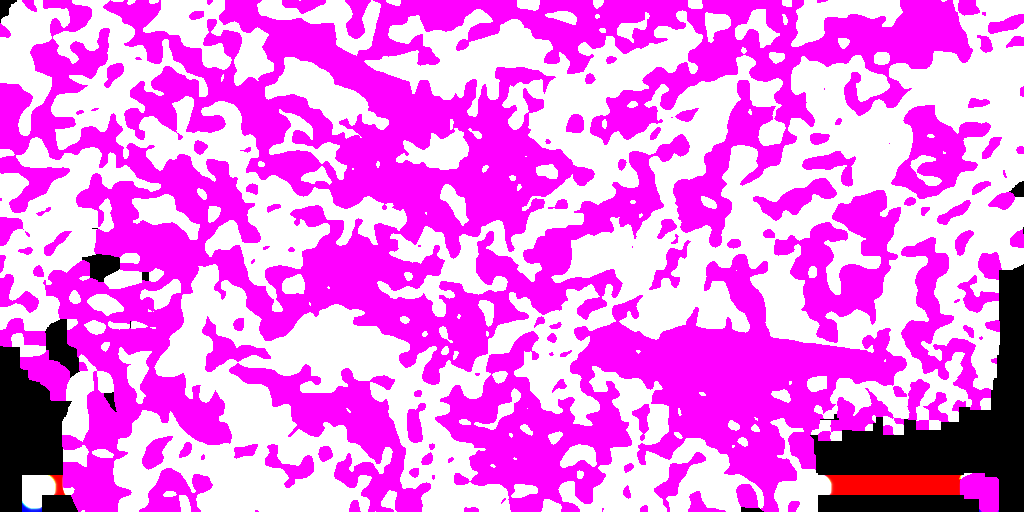
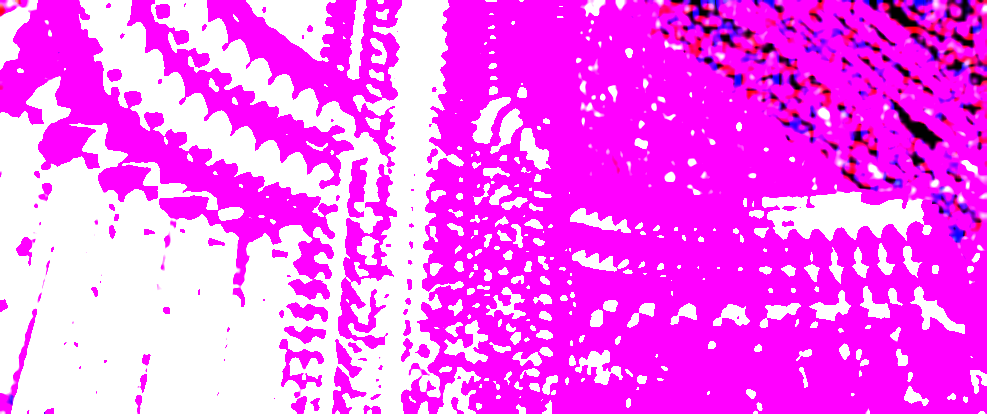
LIC algo(need refractor)

diff --git a/tools_webgl/FilterViewer/py_kuwahara/LIC.py b/tools_webgl/FilterViewer/py_kuwahara/LIC.py
@@ -25,11 +25,16 @@ class Field:
         return Vector2(-y / norm, x / norm)
     
     def getdemo(self,vfield):
-        if int(self.v2.data[1])>=512 or int(self.v2.data[0]>=512) or int(self.v2.data[1])<0 or int(self.v2.data[1])<0:
-            return Vector2(0, 0)
-        else:  
-            val = vfield[int(self.v2.data[1]),int(self.v2.data[0])]
-            return Vector2(val[0],val[1])
+        y = int(round(self.v2.data[1]))
+        x = int(round(self.v2.data[0]))
+        
+        if y>= vfield.shape[0]:
+            y -= vfield.shape[0]
+        if x>=vfield.shape[1]:
+            x -=vfield.shape[1]
+        
+        val = vfield[y,x]
+        return Vector2(val[0],val[1])
         
 class Vector2:
     def __init__(self,x,y):
@@ -56,21 +61,30 @@ class Vector2:
 
 def RK(vfield_image,p, h):
   v = Field(p).getdemo(vfield_image)
-  
+  #v = Field(p).get()
   k1 = v.vscale(h)
-
+  
+  #v = Field(p.add(k1.scale(0.5))).get()
   v = Field(p.add(k1.scale(0.5))).getdemo(vfield_image)
   k2 = v.vscale(h)
-
+  
   v = Field(p.add(k2.scale(0.5))).getdemo(vfield_image)
+  #v = Field(p.add(k2.scale(0.5))).get()
   k3 = v.vscale(h)
 
   v = Field(p.add(k3)).getdemo(vfield_image)
+  #v = Field(p.add(k3)).get()
   k4 = v.vscale(h)
-
   p = p.add(k1.vscale(1/6).vadd(k2.vscale(1/3)).vadd(k3.vscale(1/3)).vadd(k4.vscale(1/6)))
   
-  return p
+  x = p.data[0]
+  y = p.data[1]
+  if y>= vfield_image.shape[0]:
+    y -= vfield_image.shape[0]
+  if x>=vfield_image.shape[1]:
+      x -=vfield_image.shape[1]
+
+  return Vector2(x,y)
 
 
 
@@ -102,21 +116,29 @@ def chkBoundary(v2,width=512,height=512):
     
 
 def computeStreamLines(image,stream_line,out_image,num_hits,offset=0,L=20,M=10):
-
+    height,width,channel = image.shape
     #compute integral for center of streamline
-    Ix0 = 0
+    Ix0 = [0,0,0]
     k = 0
     l = len(stream_line)
     mid = (l // 2) + offset
     x0 = stream_line[mid]
     for i in range(-L,L):
         xi = stream_line[mid + i]
-        if chkBoundary(xi):
-            Ix0 += image[xi.data[1],xi.data[0]]
+        if chkBoundary(xi,width,height):
+            Ix0[0] += image[xi.data[1],xi.data[0],0]
+            Ix0[1] += image[xi.data[1],xi.data[0],1]
+            Ix0[2] += image[xi.data[1],xi.data[0],2]
             k+=1
-    Ix0 /= k
-    out_image[x0.data[1],x0.data[0]] += Ix0 
-    num_hits[x0.data[1],x0.data[0]] += 1
+    Ix0[0] /= k
+    Ix0[1] /= k
+    Ix0[2] /= k
+    out_image[x0.data[1],x0.data[0],0] += Ix0[0]
+    out_image[x0.data[1],x0.data[0],1] += Ix0[1]
+    out_image[x0.data[1],x0.data[0],2] += Ix0[2]
+    num_hits[x0.data[1],x0.data[0],0] += 1
+    num_hits[x0.data[1],x0.data[0],1] += 1
+    num_hits[x0.data[1],x0.data[0],2] += 1
     
     IxFwd = Ix0
     IxBwd = Ix0
@@ -131,10 +153,16 @@ def computeStreamLines(image,stream_line,out_image,num_hits,offset=0,L=20,M=10):
             xFwdLeft = stream_line[iFwdLeft]
             xFwdRight = stream_line[iFwdRight]
             
-            if chkBoundary(xFwdLeft) and chkBoundary(xFwdRight):
-                IxFwd += (image[xFwdRight.data[1],xFwdRight.data[0]] - image[xFwdLeft.data[1],xFwdLeft.data[0]]) / k
-                out_image[xFwd.data[1],xFwd.data[0]] += IxFwd
-                num_hits[xFwd.data[1],xFwd.data[0]]+=1
+            if chkBoundary(xFwdLeft,width,height) and chkBoundary(xFwdRight,width,height):
+                IxFwd[0] += (image[xFwdRight.data[1],xFwdRight.data[0],0] - image[xFwdLeft.data[1],xFwdLeft.data[0],0]) / k
+                IxFwd[1] += (image[xFwdRight.data[1],xFwdRight.data[0],1] - image[xFwdLeft.data[1],xFwdLeft.data[0],1]) / k
+                IxFwd[2] += (image[xFwdRight.data[1],xFwdRight.data[0],2] - image[xFwdLeft.data[1],xFwdLeft.data[0],2]) / k
+                out_image[xFwd.data[1],xFwd.data[0],0] += IxFwd[0]
+                out_image[xFwd.data[1],xFwd.data[0],1] += IxFwd[1]
+                out_image[xFwd.data[1],xFwd.data[0],2] += IxFwd[2]
+                num_hits[xFwd.data[1],xFwd.data[0],0]+=1
+                num_hits[xFwd.data[1],xFwd.data[0],1]+=1
+                num_hits[xFwd.data[1],xFwd.data[0],2]+=1
         #compute bwd integral
         iBwd = -i + mid
         iBwdRight = iBwd - L - 1
@@ -145,18 +173,26 @@ def computeStreamLines(image,stream_line,out_image,num_hits,offset=0,L=20,M=10):
             xBwdLeft = stream_line[iBwdLeft]
             xBwdRight = stream_line[iBwdRight]
     
-            if chkBoundary(xBwdLeft) and chkBoundary(xBwdRight):
-                IxBwd += (image[xBwdRight.data[1],xBwdRight.data[0]] - image[xBwdLeft.data[1],xBwdLeft.data[0]]) / k
-                out_image[xBwd.data[1],xBwd.data[0]] += IxBwd
-                num_hits[xBwd.data[1],xBwd.data[0]]+=1
+            if chkBoundary(xBwdLeft,width,height) and chkBoundary(xBwdRight,width,height):
+                IxBwd[0] += (image[xBwdRight.data[1],xBwdRight.data[0],0] - image[xBwdLeft.data[1],xBwdLeft.data[0],0]) / k
+                IxBwd[1] += (image[xBwdRight.data[1],xBwdRight.data[0],1] - image[xBwdLeft.data[1],xBwdLeft.data[0],1]) / k
+                IxBwd[2] += (image[xBwdRight.data[1],xBwdRight.data[0],2] - image[xBwdLeft.data[1],xBwdLeft.data[0],2]) / k
+                out_image[xBwd.data[1],xBwd.data[0],0] += IxBwd[0]
+                out_image[xBwd.data[1],xBwd.data[0],1] += IxBwd[1]
+                out_image[xBwd.data[1],xBwd.data[0],2] += IxBwd[2]
+                num_hits[xBwd.data[1],xBwd.data[0],0]+=1
+                num_hits[xBwd.data[1],xBwd.data[0],1]+=1
+                num_hits[xBwd.data[1],xBwd.data[0],2]+=1
     return out_image,num_hits
 
+
 def computeLIC(image,vfield_image):
-    out_image = np.zeros((512,512))
-    num_hits = np.zeros((512,512))
+    height,width,channel = image.shape
+    out_image = np.zeros((height,width,channel))
+    num_hits = np.zeros((height,width,channel))
     minNumHits = 5
-    w2 = int(512 / 2)
-    h2 = int(512 / 2)
+    w2 = int(width / 2)
+    h2 = int(height / 2)
     for i in range(w2*h2):
         print("progress:"+str(100*i/(w2*h2))+"%")
         p1x = i % w2
@@ -167,55 +203,43 @@ def computeLIC(image,vfield_image):
         p3y = (i // w2) + h2
         p4x = p2x
         p4y = p3y
-        if num_hits[p1y,p1x] < minNumHits:
+        if num_hits[p1y,p1x,0] < minNumHits:
             streamLine = computeStreamLine(vfield_image,p1x, p1y)
             out_image,num_hits = computeStreamLines(image,streamLine,out_image,num_hits)
         
-        if num_hits[p2y,p2x] < minNumHits:
+        if num_hits[p2y,p2x,0] < minNumHits:
             streamLine = computeStreamLine(vfield_image,p2x, p2y)
             out_image,num_hits = computeStreamLines(image,streamLine,out_image,num_hits)
 
-        if num_hits[p3y,p3x] < minNumHits:
+        if num_hits[p3y,p3x,0] < minNumHits:
             streamLine = computeStreamLine(vfield_image,p3x, p3y)
             out_image,num_hits = computeStreamLines(image,streamLine,out_image,num_hits)
 
-        if num_hits[p4y,p4x] < minNumHits:
+        if num_hits[p4y,p4x,0] < minNumHits:
             streamLine = computeStreamLine(vfield_image,p4x, p4y)
             out_image,num_hits = computeStreamLines(image,streamLine,out_image,num_hits)
             
-    for j in range(512):
-        for i in range(512):
-            if num_hits[j,i] != 0:
-                out_image[j,i] /= num_hits[j,i]
+    for j in range(height):
+        for i in range(width):
+            for c in range(channel):
+                if num_hits[j,i,c] != 0:
+                    out_image[j,i,c] /= num_hits[j,i,c]
     
-    out_rgb_image = np.zeros((512,512,3))
-    for j in range(512):
-        for i in range(512):
-            gray = int(out_image[j,i]*255)
-            out_rgb_image[j,i] =(gray,gray,gray) 
-    return out_rgb_image
+    return out_image
 
 def demoTensor():
-    sst = np.zeros((512,512,3))
     vfield = np.zeros((512,512,2))
     for j in range(512):
         for i in range(512):
-            dx = (i - 255)/ 100
-            dy = (j - 255)/ 100
-            E = dx*dx - dy*dy
-            F = -2 * dx* dy
-            sst[j,i,0] = E
-            sst[j,i,1] = F
-            sst[j,i,2] = E
-    sst = cv.GaussianBlur(sst,(7,7),3.0)
-    for j in range(512):
-        for i in range(512):
-            E = sst[j,i,0]
-            F = sst[j,i,1]
-            G = sst[j,i,2]
-            lambdaVal = (E + G + np.sqrt((E - G) * (E - G) + 4.0 * F * F)) / 2.0
-            vfield[j,i,0] = lambdaVal - E 
-            vfield[j,i,1] = -F 
+            x = i - int(512 / 2)
+            y = j - int(512 / 2)
+            norm = np.sqrt(x**2+y**2)
+            if norm == 0:
+                vfield[j,i,0] = 0
+                vfield[j,i,1] = 0
+            else:
+                vfield[j,i,0] = -y/norm
+                vfield[j,i,1] = x/norm                
     return vfield
 
 def randomNoise(height,width,flag_visual=False):
@@ -235,8 +259,77 @@ def randomNoise(height,width,flag_visual=False):
                 random_image[j,i] = val      
     return random_image
 
+kernel_size = 5
 
-rnd_image = randomNoise(512,512)
-vfield_image = demoTensor()
-lic_image = computeLIC(rnd_image,vfield_image)
+img = cv.imread('./img/input.jpg')
+gray = cv.cvtColor(img, cv.COLOR_BGR2GRAY)
+height,width,_ = img.shape
+
+sobelx = cv.Sobel(gray, cv.CV_32F, 1, 0, ksize=kernel_size)
+sobely = cv.Sobel(gray, cv.CV_32F, 0, 1, ksize=kernel_size)
+
+cv.imwrite("./img/sobelx.png",sobelx)
+cv.imwrite("./img/sobely.png",sobely)
+
+tensor_image = np.zeros((height,width,3))
+structure_tensor_image = np.zeros((height,width,3))
+for j in range(height):
+    for i in range(width):
+        fx = sobelx[j,i]
+        fy = sobely[j,i]
+        tensor_image[j,i] = (fx*fx,fx*fy,fy*fy)
+
+cv.imwrite("./img/tensor_image.png",tensor_image)
+
+tau = 0.002
+box_filter = [[1,0],[-1,0],[0,1],[0,-1]]
+
+for t in range(5):
+    for j in range(height):
+        for i in range(width):
+            E = tensor_image[j,i,0]
+            F = tensor_image[j,i,1]
+            G = tensor_image[j,i,2]
+            eng = np.sqrt(E*E+2*F*F+G*G)
+            if eng>tau:
+                sumE = 0
+                sumF = 0
+                sumG = 0
+                cnt = 0
+                for idx in range(len(box_filter)):
+                    xx = box_filter[idx][0] + i
+                    yy = box_filter[idx][1] + j
+                    if yy <height  and yy>=0 and xx<width and xx>=0:
+                        sumE += tensor_image[yy,xx,0]
+                        sumF += tensor_image[yy,xx,1]
+                        sumG += tensor_image[yy,xx,2]
+                        cnt+=1
+                structure_tensor_image[j,i,0]= sumE/cnt
+                structure_tensor_image[j,i,1]= sumF/cnt
+                structure_tensor_image[j,i,2]= sumG/cnt
+            else:
+                structure_tensor_image[j,i] = tensor_image[j,i]
+    tensor_image =  structure_tensor_image
+cv.imwrite("./img/structure_tensor_image.png",structure_tensor_image)
+sigma = 2 * kernel_size * kernel_size 
+smooth_structure_tensor = cv.GaussianBlur(structure_tensor_image,(kernel_size,kernel_size),sigma)
+cv.imwrite("./img/smooth_structure_tensor.png",smooth_structure_tensor)
+print("generated sst!")
+
+vfield_image = np.zeros((height,width,2))
+for j in range(height):
+    for i in range(width):
+        E = smooth_structure_tensor[j,i,0]
+        F = smooth_structure_tensor[j,i,1]
+        G = smooth_structure_tensor[j,i,2]
+        D = np.sqrt((E-G)*(E-G)+4.0*F*F)
+        lambda1 = (E + G + D) / 2.0
+        lambda2 = (E + G - D) / 2.0 
+        theta = np.arctan2(-F, lambda1 - E)
+        vfield_image[j,i,0] = np.cos(theta)
+        vfield_image[j,i,1] = np.sin(theta)
+
+print("generated vector field!")
+
+lic_image = computeLIC(img,vfield_image)
 cv.imwrite("./img/lic_image.png",lic_image)

diff --git a/tools_webgl/FilterViewer/py_kuwahara/SST.py b/tools_webgl/FilterViewer/py_kuwahara/SST.py
@@ -352,90 +352,3 @@ def demoTensor():
             vfield[j,i,0] = lambdaVal - E
             vfield[j,i,1] = -F
     return vfield
-"""
-kernel_size = 11
-
-img = cv.imread('./img/demo.png')
-gray = cv.cvtColor(img, cv.COLOR_BGR2GRAY)
-height,width,_ = img.shape
-
-sobelx = cv.Sobel(gray, cv.CV_32F, 1, 0, ksize=kernel_size)
-sobely = cv.Sobel(gray, cv.CV_32F, 0, 1, ksize=kernel_size)
-
-cv.imwrite("./img/sobelx.png",sobelx)
-cv.imwrite("./img/sobely.png",sobely)
-
-tensor_image = np.zeros((height,width,3))
-structure_tensor_image = np.zeros((height,width,3))
-for j in range(height):
-    for i in range(width):
-        fx = sobelx[j,i]
-        fy = sobely[j,i]
-        tensor_image[j,i] = (fx*fx,fx*fy,fy*fy)
-
-cv.imwrite("./img/tensor_image.png",tensor_image)
-
-tau = 0.002
-box_filter = [[1,0],[-1,0],[0,1],[0,-1]]
-
-for t in range(5):
-    for j in range(height):
-        for i in range(width):
-            E = tensor_image[j,i,0]
-            F = tensor_image[j,i,1]
-            G = tensor_image[j,i,2]
-            eng = np.sqrt(E*E+2*F*F+G*G)
-            if eng>tau:
-                sumE = 0
-                sumF = 0
-                sumG = 0
-                cnt = 0
-                for idx in range(len(box_filter)):
-                    xx = box_filter[idx][0] + i
-                    yy = box_filter[idx][1] + j
-                    if yy <height  and yy>=0 and xx<width and xx>=0:
-                        sumE += tensor_image[yy,xx,0]
-                        sumF += tensor_image[yy,xx,1]
-                        sumG += tensor_image[yy,xx,2]
-                        cnt+=1
-                structure_tensor_image[j,i,0]= sumE/cnt
-                structure_tensor_image[j,i,1]= sumF/cnt
-                structure_tensor_image[j,i,2]= sumG/cnt
-            else:
-                structure_tensor_image[j,i] = tensor_image[j,i]
-    tensor_image =  structure_tensor_image
-cv.imwrite("./img/structure_tensor_image.png",structure_tensor_image)
-sigma = 2 * kernel_size * kernel_size 
-smooth_structure_tensor = cv.GaussianBlur(structure_tensor_image,(kernel_size,kernel_size),sigma)
-cv.imwrite("./img/smooth_structure_tensor.png",smooth_structure_tensor)
-print("generated sst!")
-
-vfield_image = np.zeros((height,width,2))
-for j in range(height):
-    for i in range(width):
-        E = smooth_structure_tensor[j,i,0]
-        F = smooth_structure_tensor[j,i,1]
-        G = smooth_structure_tensor[j,i,2]
-        D = np.sqrt((E-G)*(E-G)+4.0*F*F)
-        lambda1 = (E + G + D) / 2.0
-        lambda2 = (E + G - D) / 2.0 
-        theta = np.arctan2(-F, lambda1 - E)
-        vfield_image[j,i,0] = 2 * np.cos(theta)
-        vfield_image[j,i,1] = 2 * np.sin(theta)
-
-print("generated vector field!")
-
-
-vfield_image = demoTensor()
-print("tensor calculated finished!")
-
-rnd_image = randomNoise([512,512,3])
-cv.imwrite("./img/rnd_image.png",rnd_image)
-
-args = (rnd_image,vfield_image,30,0,512)
-lic_image = lic(args)
-cv.imwrite("./img/lic_image.png",lic_image)
-print("generated LIC!")
-"""
-vfield_image = demoTensor()
-
